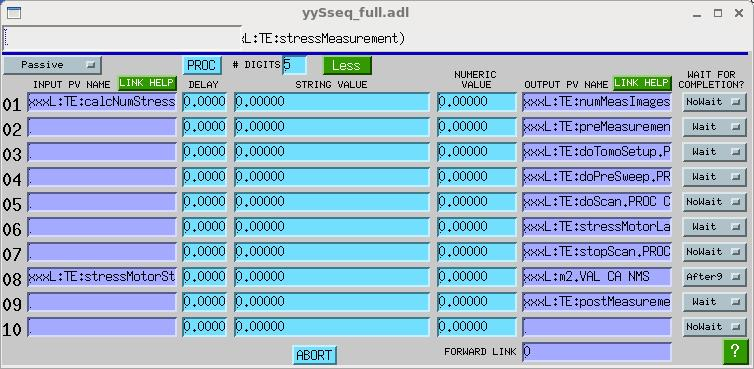
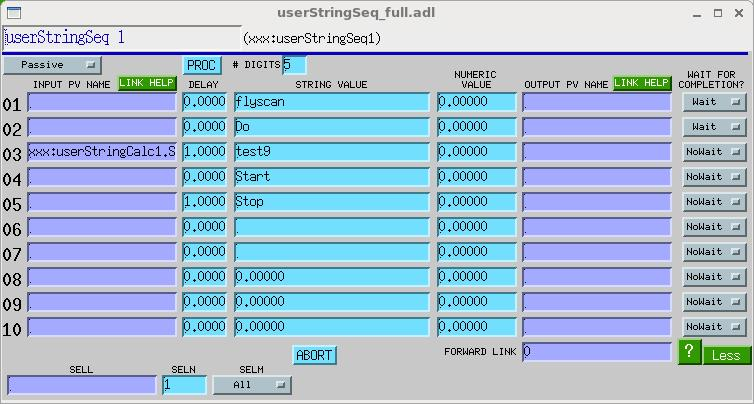
Added SELL, SELN, and SELM fields to sseq-record displays and .req files

diff --git a/documentation/sseqRecord.html b/documentation/sseqRecord.html
@@ -57,6 +57,9 @@ first 39 characters, because the sseq record uses EPICS string PVs internally.
 states of its input and output links (but not its forward link), and posts
 PVs that indicate which output links are waiting for callbacks.
 
+<P>Beginning with std-module version R3-2, and calc-module version R3-0, the
+<b>sseq</b> record moved from the std module to the calc module.
+
 <P>To write successfully to a DBF_MENU or DBF_ENUM (for example, the VAL field
 of a <code>bo</code> or <code>mbbo</code> record) the record's string value must
 be one of the possible strings for the PV, or it must an integer specifying the
@@ -493,7 +496,7 @@ groups to process. For example, if <tt>SELN</tt> is 1, then the value from
 <tt>DO1</tt> will be written to the location in <tt>LNK1</tt>. If <tt>SELN</tt>
 is 3, the record will fetch the values from <tt>DO1</tt> and <tt>DO2</tt> and
 write them to the locations in <tt>LNK1</tt> and <tt>LNK2</tt>, respectively. If
-<tt>SELN</tt> is 63, <tt>DO1</tt>...<tt>DO6</tt> will be written to
+<tt>SELN</tt> is 63 (0x3F), <tt>DO1</tt>...<tt>DO6</tt> will be written to
 <tt>LNK1</tt>...<tt>LNK6</tt>.
 
 </DL>

diff --git a/documentation/calcReleaseNotes.html b/documentation/calcReleaseNotes.html
@@ -9,6 +9,12 @@
 
 <h1 align="center">calc Release Notes</h1>
 
+<h2 align="center">Release 3-7 (unreleased)</h2>
+<ul>
+<li>seq and sseq record displays now expose the SELL, SELN, and SELM fields,
+and related .req files autosave those fields.
+</ul>
+
 <h2 align="center">Release 3-6</h2>
 <ul>
 <li>Restored yySseq.db, added yySseq_settings.req.
